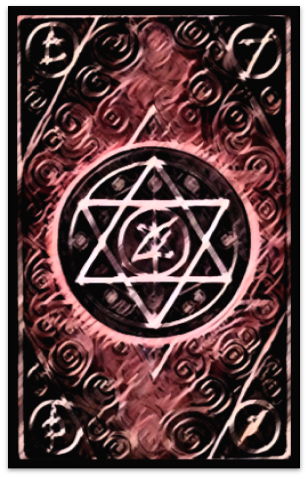
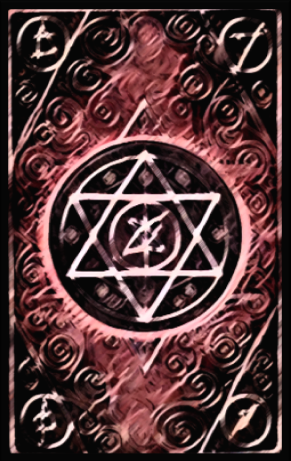
00

diff --git a/src/main/java/com/cab/cardGame/CardGameDrawer.java b/src/main/java/com/cab/cardGame/CardGameDrawer.java
@@ -64,10 +64,10 @@ public class CardGameDrawer {
 	}
 	
 	public void drawSelectedCard(CardState card, Graphics2D g2) {
-		drawDialog(Positions.tileSize7, Positions.tileSize5, Positions.tileSize10, Positions.tileSize8, g2);
+		drawDialog(Positions.tileSize7Point5, Positions.tileSize5, Positions.tileSize9, Positions.tileSize8, g2);
 
 		g2.setColor(Main.v.colorTransparent); 
-		g2.drawImage(card.defaultCard.image, Positions.tileSize12, Positions.tileSize6, Positions.tileSize4, Positions.tileSize6, null);
+		g2.drawImage(card.defaultCard.image, Positions.tileSize12, Positions.tileSize6, Positions.tileSize3Point6, Positions.tileSize6, null);
 	}
 	
 	public void drawSelectedCardText(CardState card, Graphics2D g2, String option1, String option2) {
@@ -163,15 +163,18 @@ public class CardGameDrawer {
 					g2.drawImage(gp.cardLoader.getCard(card.defaultCard.id).image, x, y - Positions.tileSize4, Positions.tileSize4, Positions.tileSize6, null);
 					g2.drawImage(gp.imageLoader.selectedCardHover.get(), x, y - Positions.tileSize4, Positions.tileSize4, Positions.tileSize6, null);
 
-					if (isEffektManualActivatable) {
+					if (isEffektManualActivatable && cg.isOnTurn) {
 						g2.drawImage(gp.imageLoader.instractionKeyboardG, x, y - Positions.tileSize6, Positions.tileSize4, Positions.tileSize2, null);
 						g2.setColor(Color.WHITE);
 						g2.drawString("Effekt aktivieren", x + Positions.tileSize, y - Positions.tileSize4Point68);
 					}
 				} else {
 					g2.drawImage(gp.cardLoader.getCard(card.defaultCard.id).image, x, y, Positions.tileSize4, Positions.tileSize6, null);
-					if (isEffektManualActivatable || cg.isPlaySpellAllowed(cg.player, card)) {
-						g2.drawImage(card.defaultCard.cardIsPlayable.get(), x, y, Positions.tileSize4, Positions.tileSize6, null);
+					
+					if (cg.isOnTurn) {
+						if (isEffektManualActivatable || cg.isPlaySpellAllowed(cg.player, card)) {
+							g2.drawImage(card.defaultCard.cardIsEffektIsPossible.get(), x, y, Positions.tileSize4, Positions.tileSize6, null);
+						}
 					}
 				}
 		
@@ -196,7 +199,7 @@ public class CardGameDrawer {
 			drawSelectedCardText(card, g2, "Aufrufen", "Verdecken");
 
 			if (cg.selectedIdx == 1) {
-				g2.drawImage(gp.imageLoader.cardBackgroundImage, Positions.tileSize12, Positions.tileSize6, Positions.tileSize4, Positions.tileSize6, null);
+				g2.drawImage(gp.imageLoader.cardBackgroundImage, Positions.tileSize12, Positions.tileSize6, Positions.tileSize3Point6, Positions.tileSize6, null);
 			}
 		} 
 	}

diff --git a/src/main/java/com/cab/configs/Positions.java b/src/main/java/com/cab/configs/Positions.java
@@ -45,6 +45,7 @@ public class Positions {
     public static int tileSize3Point6     = (int) (tileSize *  3.6);
     public static int tileSize3Point8     = (int) (tileSize *  3.8);
 
+    public static int tileSize4Point5    = (int) (tileSize *  4.5);
     public static int tileSize4Point68    = (int) (tileSize *  4.68);
 
     public static int tileSize5Point2     = (int) (tileSize *  5.2);
@@ -54,6 +55,10 @@ public class Positions {
     public static int tileSize6Point2     = (int) (tileSize *  6.2);
     public static int tileSize6Point5     = (int) (tileSize *  6.5);
     public static int tileSize6Point6     = (int) (tileSize *  6.6);
+
+    public static int tileSize7Point4     = (int) (tileSize *  7.6);
+    public static int tileSize7Point5     = (int) (tileSize *  7.6);
+    public static int tileSize7Point6     = (int) (tileSize *  7.6);
 
     public static int tileSize8Point25    = (int) (tileSize *  8.25);
     public static int tileSize8Point5     = (int) (tileSize *  8.5);

diff --git a/src/main/java/com/cab/draw/SelectedCard.java b/src/main/java/com/cab/draw/SelectedCard.java
@@ -10,6 +10,7 @@ import com.cab.card.Art;
 import com.cab.card.Card;
 import com.cab.card.Status;
 import com.cab.cardGame.CardState;
+import com.cab.configs.Positions;
 
 public class SelectedCard {
     GamePanel gp;
@@ -41,7 +42,7 @@ public class SelectedCard {
         this.x = x;
         this.y = y;
 
-        iconArtSize = (int) (gp.tileSize * 1.4);
+        iconArtSize = Positions.tileSize1Point4;
 
 		paperStatsX = x + (int) (gp.tileSize * 1.8);
 		paperStatsY = y + (int) (gp.tileSize * 7.8);
@@ -62,7 +63,7 @@ public class SelectedCard {
 		kostenStringHeaderY = y + (int) (gp.tileSize * 9.3);
 		kostenStringX = x + (int) (gp.tileSize * 3.5);
 		kostenStringY = y + (int) (gp.tileSize * 10.2);
-		iconArtX = x + (int) (gp.tileSize * 4.7);
+		iconArtX = x + Positions.tileSize4Point5;
 		iconArtY = y + (int) (gp.tileSize * 9.4);
 
 		nameStringX = x;

diff --git a/src/main/java/com/cab/card/Card.java b/src/main/java/com/cab/card/Card.java
@@ -20,9 +20,11 @@ public class Card {
 	public int kosten;
 	public boolean isSpell = false;
 	public Status status;
+
 	public AnimImage holoEffektImg;
 
 	public AnimImage cardIsPlayable;
+	public AnimImage cardIsEffektIsPossible;
 	public AnimImage cardSelectRed;
 	public AnimImage cardSelectGreen;
 	
@@ -38,7 +40,8 @@ public class Card {
 		
 		holoEffektImg = new AnimImage("/icons/anim/holo/", 14, false, 6);
 		
-		cardIsPlayable = new AnimImage("/icons/anim/cardIsPlayable/", 15, false, 6);
+		cardIsPlayable = new AnimImage("/icons/anim/cardIsPlayable/", 15, false, 5);
+		cardIsEffektIsPossible = new AnimImage("/icons/anim/cardIsEffektIsPossible/", 15, false, 6);
 		cardSelectGreen = new AnimImage("/icons/anim/selectOwnCardGreen/", 15, false, 6);
 		cardSelectRed = new AnimImage("/icons/anim/selectOponentCardRed/", 15, false, 6);
 

diff --git a/src/main/java/com/cab/effektCards/fluch/Feuer.java b/src/main/java/com/cab/effektCards/fluch/Feuer.java
@@ -18,7 +18,7 @@ public class Feuer extends EffektCardState {
 	}
 	
     public boolean isEffektPossible(Player p) {
-        return p.boardCards.stream().anyMatch(card -> !card.statusSet.contains(Status.Feuer) && !card.isHide);	
+        return cardGame.getOpOfP(p).boardCards.stream().anyMatch(card -> !card.statusSet.contains(Status.Feuer) && !card.isHide);	
     }
 
     public boolean isCardValidForSelection(CardState card) {

diff --git a/src/main/java/com/cab/cardGame/CardGameUpdater.java b/src/main/java/com/cab/cardGame/CardGameUpdater.java
@@ -40,6 +40,7 @@ public class CardGameUpdater {
                 }
                 else if(keyH.enterPressed) {
                     if (!cg.isOnline) {
+                        cg.startTurn();
                         cg.player.spellGraveCards.add(cg.player.handCards.get(0));
                         cg.player.graveCards.add(cg.player.handCards.get(0));
     

diff --git a/src/main/java/com/cab/effektCards/kreaturen/Roboto.java b/src/main/java/com/cab/effektCards/kreaturen/Roboto.java
@@ -1,8 +1,5 @@
 package com.cab.effektCards.kreaturen;
 
-import java.util.ArrayList;
-import java.util.List;
-
 import com.cab.card.Art;
 import com.cab.card.Card;
 import com.cab.cardGame.CardGame;
